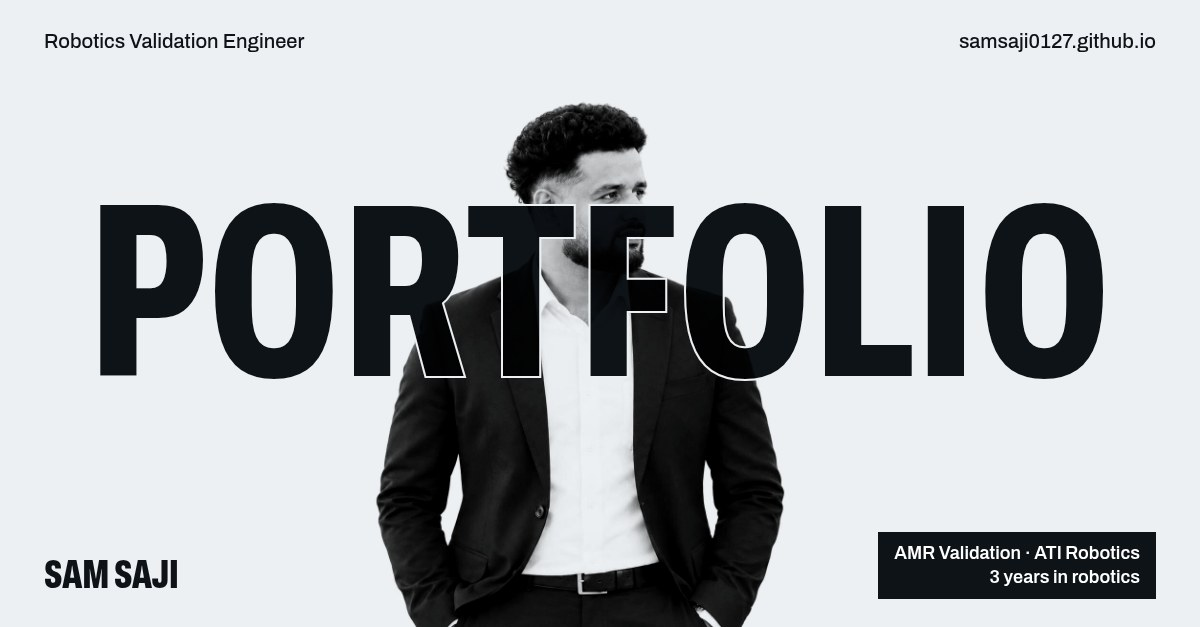
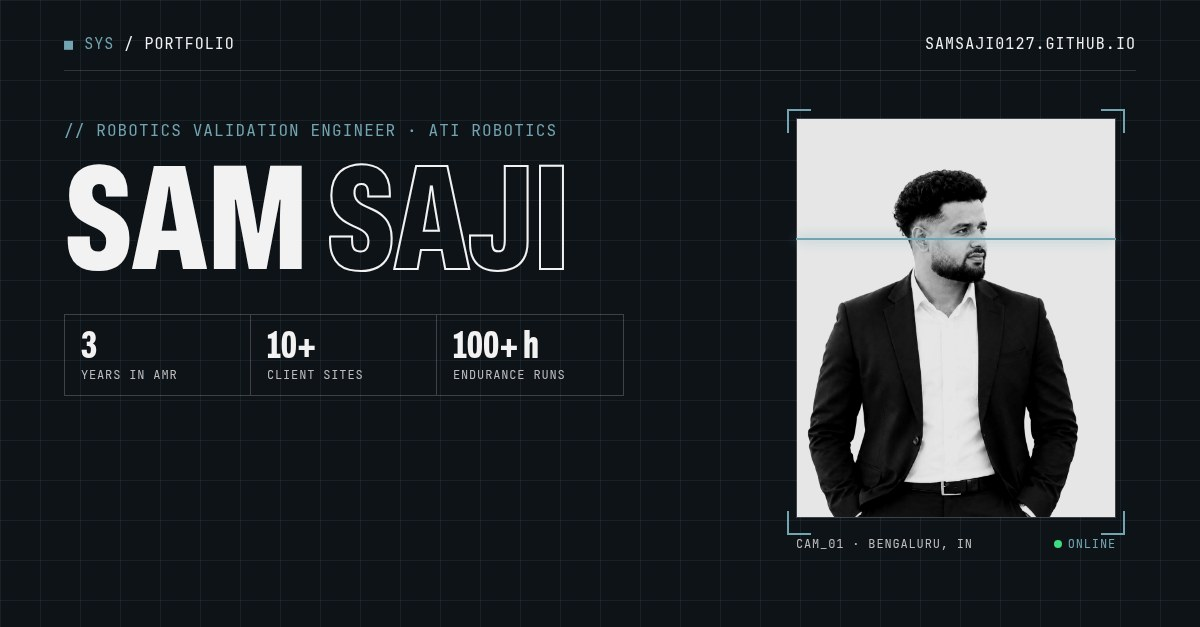
Technical hero redesign with smaller framed photo; matching thumbnail

diff --git a/index.html b/index.html
@@ -17,11 +17,12 @@
 <meta name="twitter:image" content="https://samsaji0127.github.io/og-image.jpg">
 <link rel="preconnect" href="https://fonts.googleapis.com">
 <link rel="preconnect" href="https://fonts.gstatic.com" crossorigin>
-<link rel="stylesheet" href="https://fonts.googleapis.com/css2?family=Archivo:ital,wdth,wght@0,62..125,400..900;1,100,400&display=swap">
+<link rel="stylesheet" href="https://fonts.googleapis.com/css2?family=Archivo:ital,wdth,wght@0,62..125,400..900;1,100,400&family=JetBrains+Mono:wght@400;500;700&display=swap">
 <style>
 :root{
   --light:#edf0f2; --dark:#2b2b2b; --black:#0e1318; --ink:#111; --muted:#5d6166;
   --on-dark:#f2f2f2; --on-dark-muted:#bdbdbd; --rule:#9a9a9a; --accent:#72a4b1;
+  --mono:"JetBrains Mono",ui-monospace,Menlo,monospace;
   --f:"Archivo",system-ui,-apple-system,"Segoe UI",sans-serif;
 }
 *{box-sizing:border-box}
@@ -36,24 +37,41 @@ section{padding:clamp(56px,9vw,110px) 0}
 .dark{background:var(--dark);color:var(--on-dark)}
 .black{background:var(--black);color:var(--on-dark)}
 
-/* HERO: solid word behind the photo, outlined copy in front */
-.hero{position:relative;min-height:min(100vh,860px);overflow:hidden;background:var(--light);display:flex;flex-direction:column;justify-content:space-between;padding:28px 0}
+/* HERO: technical "sensor feed" layout on a blueprint grid */
+.hero{position:relative;overflow:hidden;background:var(--black);color:var(--on-dark);padding:24px 0 clamp(40px,6vw,72px);
+  background-image:linear-gradient(rgba(114,164,177,.09) 1px,transparent 1px),linear-gradient(90deg,rgba(114,164,177,.09) 1px,transparent 1px);
+  background-size:40px 40px}
 .hero .wrap{width:100%}
-.hero .bar{position:relative;z-index:3;display:flex;justify-content:space-between;align-items:center;gap:16px;font-size:15px}
-.hero nav{display:flex;gap:20px;flex-wrap:wrap}
-.hero nav a{text-decoration:none;font-weight:500}
-.hero nav a:hover{text-decoration:underline}
-.word{position:absolute;inset:0;display:grid;place-items:center;pointer-events:none;
-  font-size:clamp(84px,21vw,300px);font-stretch:62%;font-weight:800;line-height:1;letter-spacing:-.01em}
-.word.solid{z-index:1;color:var(--black)}
-.word.outline{z-index:3;color:transparent;-webkit-text-stroke:2px var(--light)}
-.hero img{position:absolute;z-index:2;left:50%;bottom:0;transform:translateX(-50%);height:96%;max-width:none;
-  filter:grayscale(1) contrast(1.08);mix-blend-mode:multiply}
-.hero .foot{position:relative;z-index:4;display:flex;justify-content:space-between;align-items:flex-end;gap:16px;flex-wrap:wrap}
-.hero .name{font-size:clamp(18px,2.2vw,24px);font-weight:600;background:var(--light);padding:2px 8px;margin-left:-8px}
+.hero .bar{display:flex;justify-content:space-between;align-items:center;gap:16px;font-family:var(--mono);font-size:12.5px;letter-spacing:.06em;text-transform:uppercase;padding-bottom:18px;border-bottom:1px solid rgba(255,255,255,.12)}
+.hero .bar .sys{color:var(--accent)}
+.hero nav{display:flex;gap:22px;flex-wrap:wrap}
+.hero nav a{text-decoration:none;color:var(--on-dark-muted)}
+.hero nav a:hover{color:#fff}
+.hero-grid{display:grid;grid-template-columns:minmax(0,1.25fr) minmax(0,.75fr);gap:clamp(32px,5vw,72px);align-items:center;margin-top:clamp(36px,6vw,72px)}
+.kicker{font-family:var(--mono);font-size:13px;color:var(--accent);letter-spacing:.08em;text-transform:uppercase;margin-bottom:14px}
+.hero h1{font-size:clamp(56px,9vw,124px);font-stretch:62%;font-weight:800;line-height:.88;text-transform:uppercase;letter-spacing:-.01em}
+.hero h1 .ol{color:transparent;-webkit-text-stroke:1.5px var(--on-dark)}
+.hero .role{font-size:clamp(16px,1.6vw,19px);color:var(--on-dark-muted);margin:20px 0 28px;max-width:520px}
+.readout{display:grid;grid-template-columns:repeat(3,minmax(0,1fr));border:1px solid rgba(255,255,255,.16);max-width:540px;margin-bottom:28px}
+.readout div{padding:12px 14px;border-right:1px solid rgba(255,255,255,.16)}
+.readout div:last-child{border-right:0}
+.readout b{display:block;font-stretch:62%;font-weight:800;font-size:32px;line-height:1}
+.readout span{font-family:var(--mono);font-size:10.5px;letter-spacing:.06em;text-transform:uppercase;color:var(--on-dark-muted)}
+.feed{position:relative;justify-self:end;width:100%;max-width:360px}
+.feed .frame{position:relative;aspect-ratio:4/5;overflow:hidden;background:#dfe3e6;border:1px solid rgba(255,255,255,.2)}
+.feed img{width:100%;height:100%;object-fit:cover;object-position:50% 12%;filter:grayscale(1) contrast(1.1) brightness(.9);display:block}
+.feed .frame::after{content:"";position:absolute;left:0;right:0;height:2px;background:rgba(114,164,177,.85);box-shadow:0 0 12px rgba(114,164,177,.9);top:0;animation:scan 4s linear infinite}
+@keyframes scan{to{top:100%}}
+@media (prefers-reduced-motion:reduce){.feed .frame::after{animation:none;display:none}}
+.feed .c{position:absolute;width:22px;height:22px;border:2px solid var(--accent)}
+.feed .c1{top:-8px;left:-8px;border-right:0;border-bottom:0}.feed .c2{top:-8px;right:-8px;border-left:0;border-bottom:0}
+.feed .c3{bottom:-8px;left:-8px;border-right:0;border-top:0}.feed .c4{bottom:-8px;right:-8px;border-left:0;border-top:0}
+.feed .lbl{display:flex;justify-content:space-between;font-family:var(--mono);font-size:11px;letter-spacing:.06em;text-transform:uppercase;color:var(--on-dark-muted);margin-top:16px}
+.feed .lbl i{font-style:normal;color:var(--accent)}
+.feed .lbl i::before{content:"";display:inline-block;width:7px;height:7px;border-radius:50%;background:#3ddc84;margin-right:6px;vertical-align:1px}
 .icons{display:flex;gap:10px}
-.icons a{width:40px;height:40px;display:grid;place-items:center;background:var(--black);color:#fff;border-radius:50%}
-.icons a:hover{background:var(--accent)}
+.icons a{width:40px;height:40px;display:grid;place-items:center;border:1px solid rgba(255,255,255,.3);color:#fff}
+.icons a:hover{background:var(--accent);border-color:var(--accent)}
 .icons svg{width:18px;height:18px}
 
 /* SUMMARY */
@@ -124,14 +142,14 @@ section{padding:clamp(56px,9vw,110px) 0}
 
 @media (max-width:860px){
   .edu,.exp{grid-template-columns:1fr}
+  .hero-grid{grid-template-columns:1fr}
+  .feed{justify-self:start;max-width:300px;margin-left:8px}
   .grid4{grid-template-columns:1fr 1fr}
   .langs{grid-template-columns:repeat(2,1fr)}
   .contact .rows{grid-template-columns:1fr}
 }
 @media (max-width:560px){
   .hero nav{display:none}
-  .hero{min-height:620px}
-  .hero img{height:78%}
   .grid3{grid-template-columns:1fr}
   .card h3{min-height:0}
   .entry .date{float:none;display:block;margin:0 0 2px}
@@ -142,22 +160,33 @@ section{padding:clamp(56px,9vw,110px) 0}
 
 <header class="hero" id="top">
   <div class="wrap bar">
-    <span>Validation Engineer</span>
+    <span><span class="sys">&#9632; SYS</span> / Portfolio</span>
     <nav>
       <a href="#about">About</a><a href="#experience">Experience</a><a href="#projects">Projects</a><a href="#skills">Skills</a><a href="#contact">Contact</a>
     </nav>
   </div>
-  <div class="word solid" aria-hidden="true">PORTFOLIO</div>
-  <img src="photo.jpg" alt="Sam Saji in a dark suit and white shirt">
-  <div class="word outline" aria-hidden="true">PORTFOLIO</div>
-  <div class="wrap foot">
-    <h1 class="name">Sam Saji</h1>
-    <div class="icons">
+  <div class="wrap hero-grid">
+    <div>
+      <div class="kicker">// Robotics Validation Engineer · ATI Robotics</div>
+      <h1>Sam<br><span class="ol">Saji</span></h1>
+      <p class="role">I test autonomous mobile robots, covering hardware, firmware, software, navigation and safety, so they work reliably in real warehouses.</p>
+      <div class="readout">
+        <div><b>3</b><span>Years in AMR</span></div>
+        <div><b>10+</b><span>Client sites</span></div>
+        <div><b>100+ h</b><span>Endurance runs</span></div>
+      </div>
+      <div class="icons">
       <a href="tel:+917909219980" aria-label="Phone"><svg viewBox="0 0 24 24" fill="none" stroke="currentColor" stroke-width="2"><path d="M22 16.9v3a2 2 0 0 1-2.2 2 19.8 19.8 0 0 1-8.6-3.1 19.5 19.5 0 0 1-6-6A19.8 19.8 0 0 1 2.1 4.2 2 2 0 0 1 4.1 2h3a2 2 0 0 1 2 1.7c.1 1 .4 1.9.7 2.8a2 2 0 0 1-.5 2.1L8 9.9a16 16 0 0 0 6 6l1.3-1.3a2 2 0 0 1 2.1-.4c.9.3 1.8.6 2.8.7a2 2 0 0 1 1.7 2z"/></svg></a>
       <a href="https://linkedin.com/in/sam-saji-aa7492270" aria-label="LinkedIn"><svg viewBox="0 0 24 24" fill="currentColor"><path d="M4.98 3.5a2.5 2.5 0 1 1 0 5 2.5 2.5 0 0 1 0-5zM3 9h4v12H3zM9 9h3.8v1.7h.1c.5-1 1.8-2 3.7-2 4 0 4.7 2.6 4.7 6V21h-4v-5.6c0-1.3 0-3-1.9-3s-2.1 1.4-2.1 2.9V21H9z"/></svg></a>
       <a href="https://github.com/samsaji0127" aria-label="GitHub"><svg viewBox="0 0 24 24" fill="currentColor"><path d="M12 .5a11.5 11.5 0 0 0-3.6 22.4c.6.1.8-.3.8-.6v-2c-3.2.7-3.9-1.5-3.9-1.5-.5-1.3-1.3-1.7-1.3-1.7-1-.7.1-.7.1-.7 1.2.1 1.8 1.2 1.8 1.2 1 1.8 2.8 1.3 3.5 1 .1-.8.4-1.3.7-1.6-2.6-.3-5.3-1.3-5.3-5.7 0-1.3.5-2.3 1.2-3.1-.1-.3-.5-1.5.1-3.1 0 0 1-.3 3.2 1.2a11 11 0 0 1 5.8 0c2.2-1.5 3.2-1.2 3.2-1.2.6 1.6.2 2.8.1 3.1.8.8 1.2 1.8 1.2 3.1 0 4.4-2.7 5.4-5.3 5.7.4.4.8 1.1.8 2.2v3.2c0 .3.2.7.8.6A11.5 11.5 0 0 0 12 .5z"/></svg></a>
       <a href="mailto:Vettattusamsaji@gmail.com" aria-label="Email"><svg viewBox="0 0 24 24" fill="none" stroke="currentColor" stroke-width="2"><rect x="2" y="4" width="20" height="16" rx="2"/><path d="m2 6 10 7 10-7"/></svg></a>
     </div>
+    </div>
+    <figure class="feed" style="margin:0">
+      <div class="frame"><img src="photo.jpg" alt="Sam Saji in a dark suit and white shirt"></div>
+      <span class="c c1"></span><span class="c c2"></span><span class="c c3"></span><span class="c c4"></span>
+      <figcaption class="lbl"><span>CAM_01 · Bengaluru, IN</span><i>Online</i></figcaption>
+    </figure>
   </div>
 </header>
 
